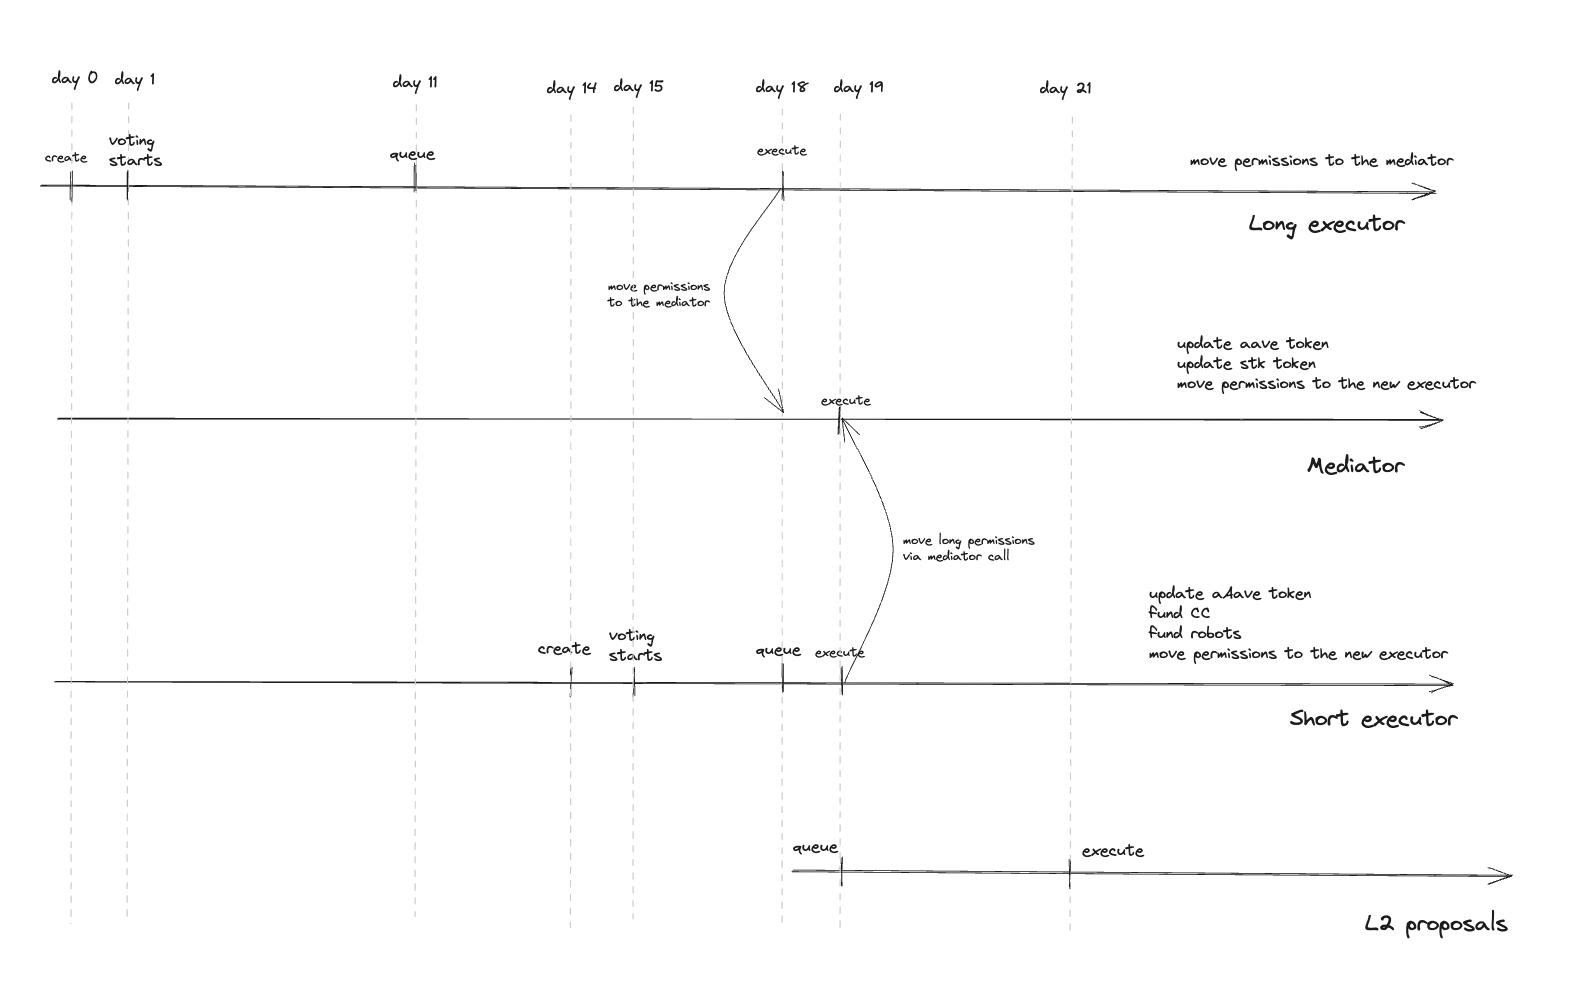
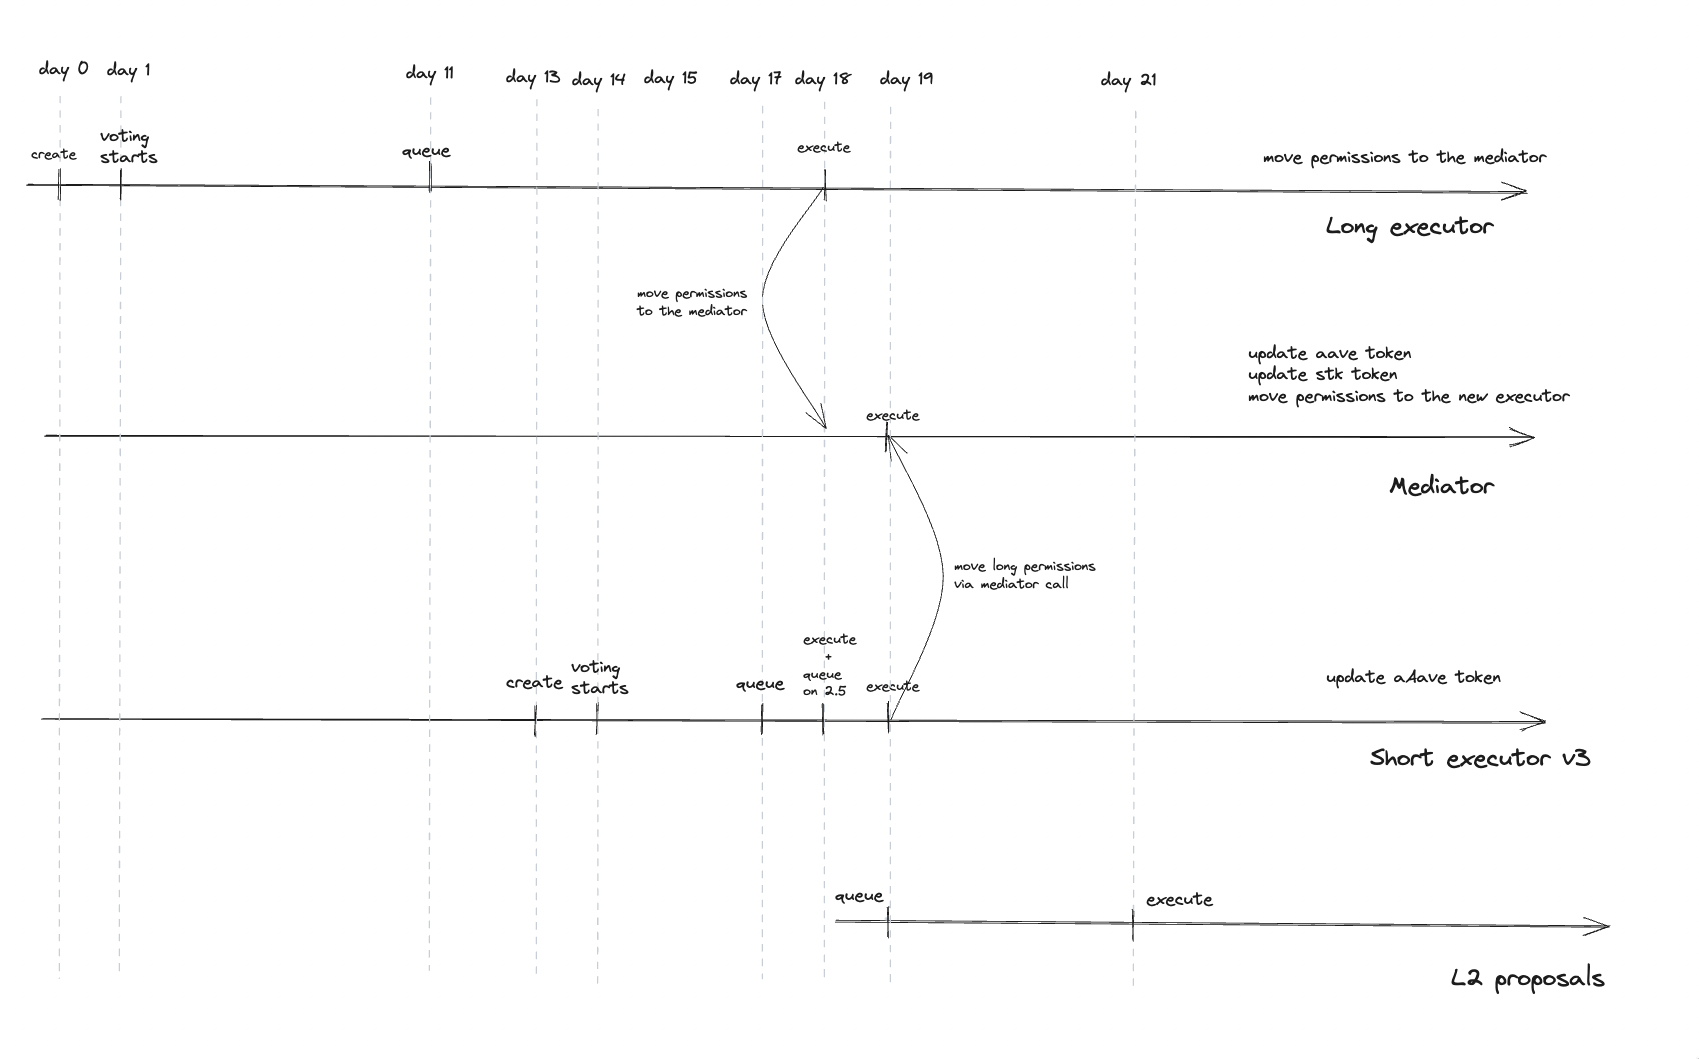
Update readme

diff --git a/README.md b/README.md
@@ -1,27 +1,24 @@
-## Migration Governance v2→v3
+## Migration Governance v2→v2.5→v3
 
-This repository contains payloads which are necessary for migration of all the Aave deployments from governance v2 to v3.
+This repository contains payloads which are necessary for migration of all the Aave deployments from governance v2 to v2.5 and then to v3.
+
+To migrate to Governance v2.5 the short proposal will move all the permissions to the new lvl1 executors across all the networks.
 
 Activating Aave Governance v3 requires passing both Level 1 (Short) and Level 2 (Long) proposals on Aave Governance v2, but as the execution of both should be atomic, the global procedure needs to be more sophisticated than usual.
 
 The following diagram gives an overview of how this process will be.
 ![Execution timeline](./proposal_timeline.png)
 
-## List of contracts and actions:
+## Governance V2.5
 
-- [Mediator contract](./src/contracts/Mediator.sol). In order to execute sync/atomically both Level 1 and Level 2 proposals, we have created the so-called mediator smart contract, which will receive permissions from the Level 2 executor (long), allowing for the Level 1 executor to do its own execution in sync.
-  This is mandatory, because in any situation of Level 1 passing and Level 2 not (or vice versa), the whole Aave Governance v2 & v3 systems will not be operative.
+This is an intermediate step to activate a.DI and move all the permissions to the new short executors across all the networks.
 
-- [Level 2 (Long executor) proposal, Ethereum](./src/contracts/EthLongMovePermissionsPayload.sol).
-
-  - Transfer the proxy admin permissions from the AAVE token to the ProxyAdmin Level 2 contract.
-  - Transfer the ownership of the ProxyAdmin Level 2 contract to the Mediator.
-  - Transfer the pendingAdmin role of Governance v2 Level 2 Executor to the Governance v3 Level 2 Executor.
-  - Change ownership of Governance v3 Level 2 Executor to the Mediator contract.
+### List of contracts and actions:
 
 - [Level 1 (Short executor) proposal, Ethereum](./src/contracts/EthShortMovePermissionsPayload.sol)
 
   - **Trigger the execution of the Mediator.**
+  - Change implementation of the Governance V3 contract to V2.5.
   - Fund CCC contract on a.DI from Aave Collector.
   - Fund execution robot.
   - Migrate all “minor” permissions of stkAAVE to the Governance v3 Level 1 Executor.
@@ -35,7 +32,7 @@ The following diagram gives an overview of how this process will be.
   - Migrate permissions of Balancer v1 ABPT to the Governance v3 Level 1 Executor.
   - Transfer the ownership of the Aave Swapper contract to the Governance v3 Level 1 Executor.
   - Transfer the ownership of the Aave Collector Polygon→Ethereum bridge to the Governance v3 level 1 Executor.
-  - Migrate the admin role of Governance v2 Level 1 Executor to the Governance v3 Level 1 Executor.
+  - Start migrating the admin role of Governance v2 Level 1 Executor to the Governance v3 Level 1 Executor.
   - Change ownership of Governance v3 Level 1 Executor to the Governance v2 Payloads Controller.
 
 - [Polygon PoS](./src/contracts/PolygonMovePermissionsPayload.sol)
@@ -74,7 +71,30 @@ The following diagram gives an overview of how this process will be.
 - [Base](./src/contracts/BaseMovePermissionsPayload.sol)
   - Migrate all permissions of Aave v3 Base to the Governance v3 Level 1 Executor.
 
-### Setup
+## Governance V3
+
+Final step to migrate to Governance V3.
+
+### List of contracts and actions:
+
+- [Mediator contract](./src/contracts/Mediator.sol). In order to execute sync/atomically both Level 1 and Level 2 proposals, we have created the so-called mediator smart contract, which will receive permissions from the Level 2 executor (long), allowing for the Level 1 executor to do its own execution in sync.
+  This is mandatory, because in any situation of Level 1 passing and Level 2 not (or vice versa), the whole Aave Governance v2 & v3 systems will not be operative.
+
+- [Level 2 (Long executor) proposal, Ethereum](./src/contracts/EthLongMovePermissionsPayload.sol).
+
+  - Upgrade the implementation of the Governance V3 to the final version.
+  - Transfer the proxy admin permissions from the AAVE token to the ProxyAdmin Level 2 contract.
+  - Transfer the ownership of the ProxyAdmin Level 2 contract to the Mediator.
+  - Transfer the pendingAdmin role of Governance v2 Level 2 Executor to the Governance v3 Level 2 Executor.
+  - Change ownership of Governance v3 Level 2 Executor to the Mediator contract.
+
+- [Level 1 (Short executor) proposal, Ethereum](./src/contracts/EthShortMovePermissionsPayload.sol)
+
+  - **Trigger the execution of the Mediator.**
+  - Accept the admin role of Governance v2 Level 1 Executor to the Governance v3 Level 1 Executor.
+  - Upgrade aAave implementation.
+
+## Setup
 
 ```sh
 cp .env.example .env
